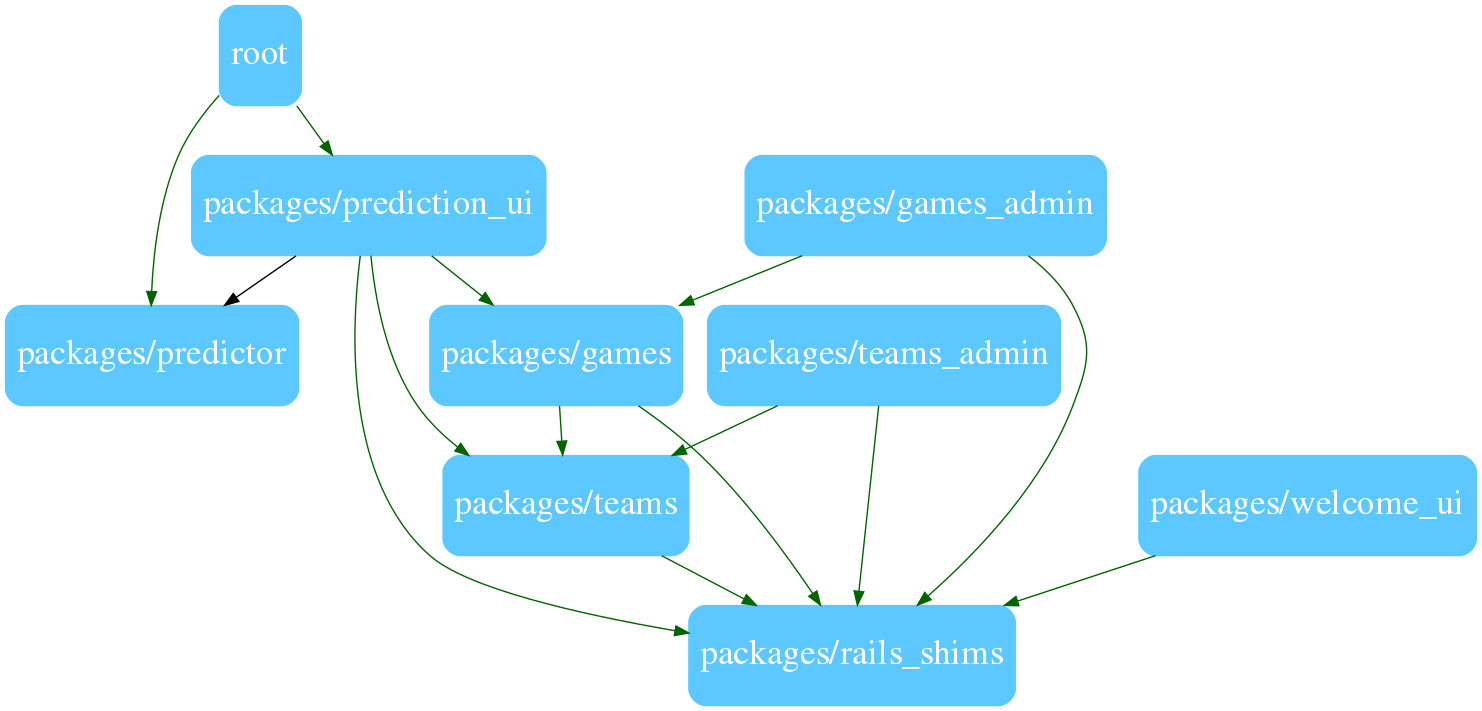
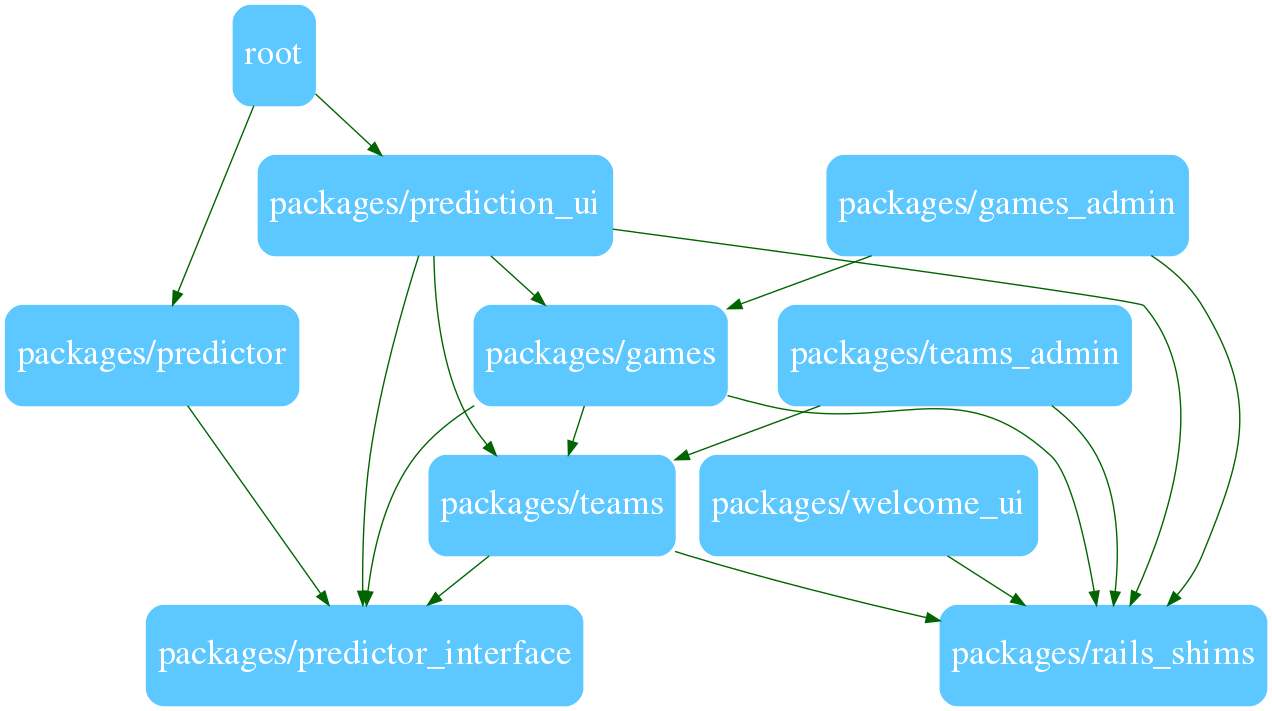
Content for c5s07-3 (2022-03-07)

diff --git a/packages/predictor/app/models/predictor.rb b/packages/predictor/app/models/predictor.rb
@@ -1,37 +1,52 @@
 # typed: false
+
 require "saulabs/trueskill"
 
 class Predictor
+  include PredictorInterface
+  extend T::Sig
+
+  sig {override.params(teams: T::Enumerable[Contender], games: T::Enumerable[HistoricalPerformanceIndicator]).void}
   def learn(teams, games)
+    @teams_lookup = T.let({}, T.nilable(T::Hash[Integer, TeamLookup]))
     @teams_lookup = teams.inject({}) do |memo, team|
-      memo[team.id] = {
-          team: team,
-          rating: [Saulabs::TrueSkill::Rating.new(1500.0, 1000.0, 1.0)]
-      }
+      memo[team.id] = TeamLookup.new(
+        team: team,
+        rating: Saulabs::TrueSkill::Rating.new(1500.0, 1000.0, 1.0)
+      )
       memo
     end
 
     games.each do |game|
-      first_team_rating = @teams_lookup[game.first_team_id][:rating]
-      second_team_rating = @teams_lookup[game.second_team_id][:rating]
+      first_team_rating = @teams_lookup[game.first_team_id].rating
+      second_team_rating = @teams_lookup[game.second_team_id].rating
       game_result = game.winning_team == 1 ?
-          [first_team_rating, second_team_rating] :
-          [second_team_rating, first_team_rating]
-      Saulabs::TrueSkill::FactorGraph.new(game_result, [1, 2]).update_skills
+          [[first_team_rating], [second_team_rating]] :
+          [[second_team_rating], [first_team_rating]]
+        Saulabs::TrueSkill::FactorGraph.new(game_result, [1, 2]).update_skills
     end
   end
 
+  sig {override.params(first_team: Contender, second_team: Contender).returns(Prediction)}
   def predict(first_team, second_team)
-    team1 = @teams_lookup[first_team.id][:team]
-    team2 = @teams_lookup[second_team.id][:team]
+    team1 = T.must(T.must(@teams_lookup)[first_team.id]).team
+    team2 = T.must(T.must(@teams_lookup)[second_team.id]).team
     winner = higher_mean_team(first_team, second_team) ? team1 : team2
     Prediction.new(team1, team2, winner)
   end
 
   private
 
+  sig {params(first_team: Contender, second_team: Contender).returns(T::Boolean)}
   def higher_mean_team(first_team, second_team)
-    @teams_lookup[first_team.id][:rating].first.mean >
-        @teams_lookup[second_team.id][:rating].first.mean
+    T.must(T.must(@teams_lookup)[first_team.id]).rating.mean >
+        T.must(T.must(@teams_lookup)[second_team.id]).rating.mean
   end
+
+  class TeamLookup < T::Struct
+    const :team, Contender
+    const :rating, Saulabs::TrueSkill::Rating
+  end
+  private_constant :TeamLookup
 end
+

diff --git a/packages/prediction_ui/app/services/prediction_ui.rb b/packages/prediction_ui/app/services/prediction_ui.rb
@@ -3,13 +3,13 @@
 module PredictionUi
   extend T::Sig
 
-  sig {params(predictor: Predictor).void}
+  sig {params(predictor: PredictorInterface).void}
   def self.configure(predictor)
-    @predictor = T.let(predictor, T.nilable(Predictor))
-    freeze
+    @predictor = T.let(predictor, T.nilable(PredictorInterface))
+    # freeze
   end
 
-  sig {returns(T.nilable(Predictor))}
+  sig {returns(T.nilable(PredictorInterface))}
   def self.predictor
     @predictor
   end

diff --git a/packages/predictor_interface/app/public/predictor_interface.rb b/packages/predictor_interface/app/public/predictor_interface.rb
@@ -1,0 +1,14 @@
+# typed: strict
+
+module PredictorInterface
+  extend T::Sig
+  extend T::Helpers
+  interface!
+
+  sig { abstract.params(teams: T::Enumerable[Contender], games: T::Enumerable[HistoricalPerformanceIndicator]).void }
+  def learn(teams, games); end
+
+  sig { abstract.params(first_team: Contender, second_team: Contender).returns(Prediction) }
+  def predict(first_team, second_team); end
+end
+

diff --git a/packages/games/app/models/game.rb b/packages/games/app/models/game.rb
@@ -1,7 +1,11 @@
 # typed: false
 class Game < ApplicationRecord
+  include HistoricalPerformanceIndicator
+  extend T::Sig
+
   validates :date, :location, :first_team, :second_team, :winning_team,
             :first_team_score, :second_team_score, presence: true
   belongs_to :first_team, class_name: "Team"
   belongs_to :second_team, class_name: "Team"
 end
+

diff --git a/packages/predictor_interface/app/public/historical_performance_indicator.rb b/packages/predictor_interface/app/public/historical_performance_indicator.rb
@@ -1,0 +1,17 @@
+# typed: strict
+
+module HistoricalPerformanceIndicator
+  extend T::Sig
+  extend T::Helpers
+  interface!
+
+  sig { abstract.returns(Integer) }
+  def first_team_id; end
+
+  sig { abstract.returns(Integer) }
+  def second_team_id; end
+
+  sig { abstract.returns(Integer) }
+  def winning_team; end
+end
+

diff --git a/packages/predictor_interface/app/public/contender.rb b/packages/predictor_interface/app/public/contender.rb
@@ -1,0 +1,11 @@
+# typed: strict
+
+module Contender
+  extend T::Sig
+  extend T::Helpers
+  interface!
+
+  sig { abstract.returns(Integer) }
+  def id; end
+end
+

diff --git a/packages/teams/app/models/team.rb b/packages/teams/app/models/team.rb
@@ -1,4 +1,8 @@
 # typed: false
 class Team < ApplicationRecord
+  include Contender
+  extend T::Sig
+
   validates :name, presence: true
 end
+
